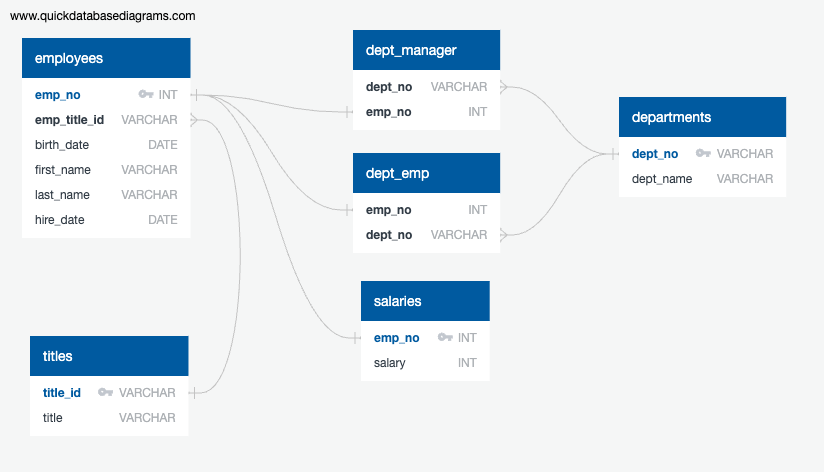
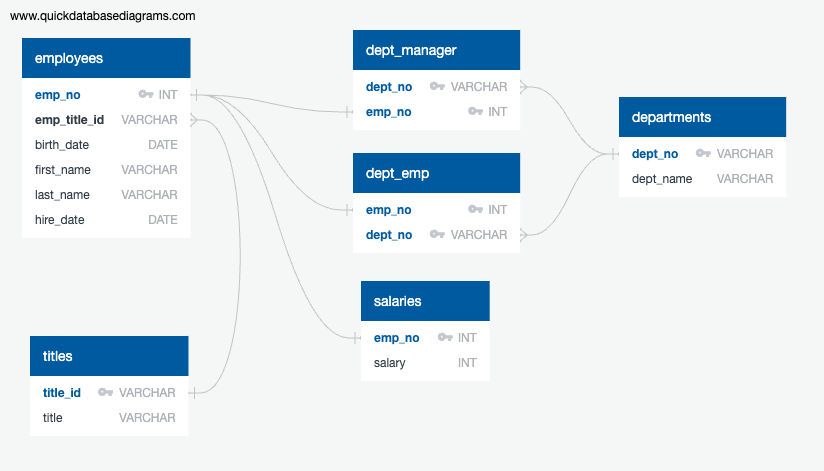
Update to ERD Diagram

diff --git a/sql-challenge/README.md b/sql-challenge/README.md
@@ -1,0 +1,3 @@
+# DATA ENGINEERING WITH SQL
+
+![EDR_TABLE](/Outputs/Employee_ERD.png)
